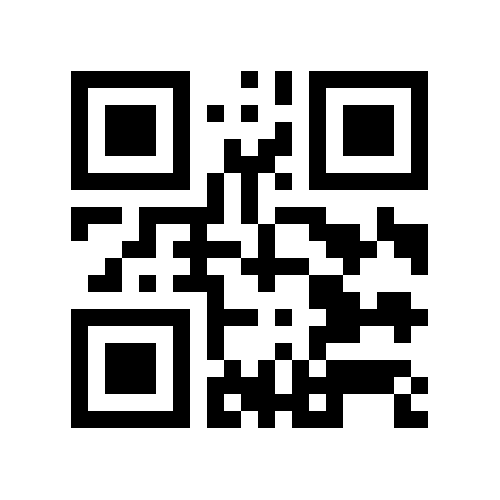
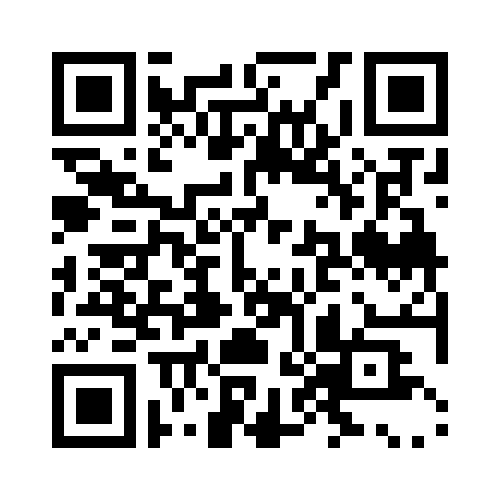
QR Code

diff --git a/src/main/java/com/example/qrcode/QRCode.java b/src/main/java/com/example/qrcode/QRCode.java
@@ -14,7 +14,7 @@ public class QRCode {
 
         int width= 500;
         int height = 500;
-        String qrCodeText = "Komiljon";
+        String qrCodeText = "Komiljon Bakhromov Muzaffar o'g'li Java Backend dasturchisi!";
         String fileType = "png";
 
         try {
